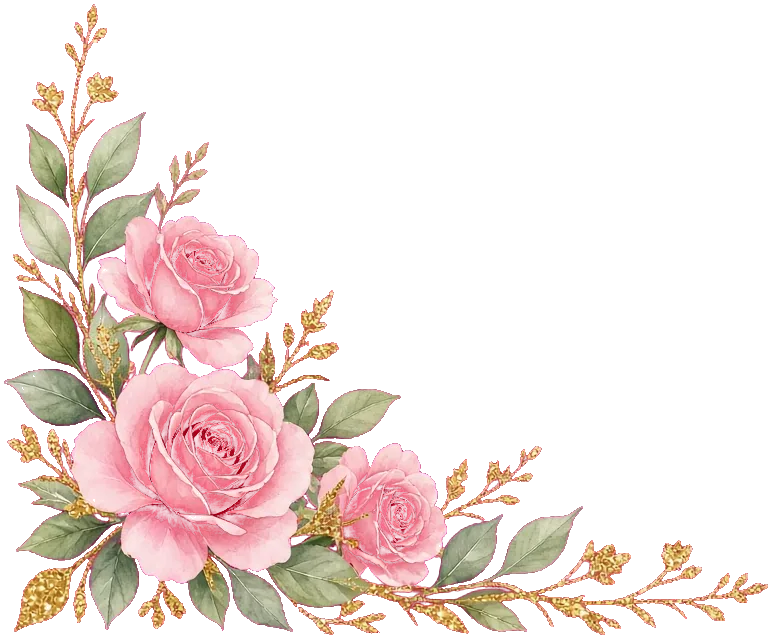
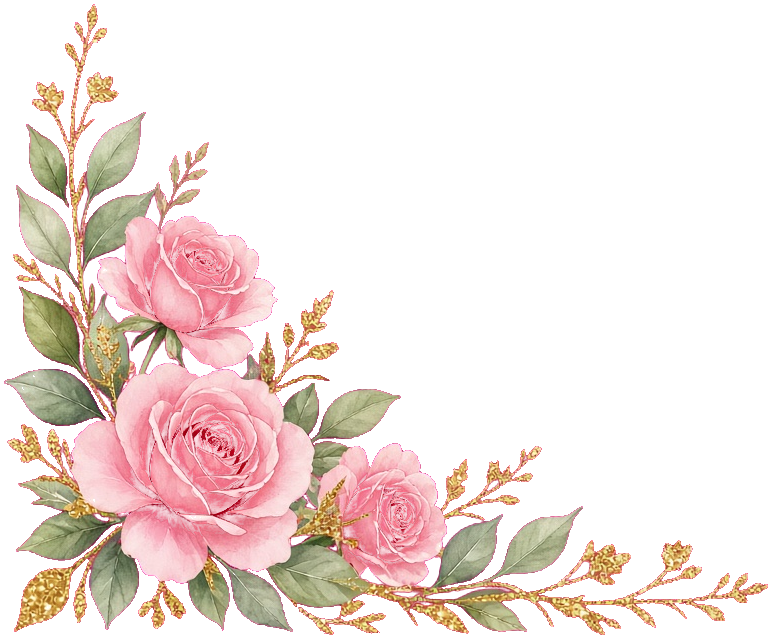
Refresh quince-tiara Ink pack and serve PNG florals.
Overwrite TL/BR/gown/tiara from the latest true-alpha Ink drop, rebuild lossless WebPs with no white matte, and paint florals from PNG so guest browsers cannot apply a WebP plate.

diff --git a/src/components/invite/quinceframe/quinceframe.css b/src/components/invite/quinceframe/quinceframe.css
@@ -95,10 +95,10 @@
 }
 
 .quinceframe-floral--tl {
-  top: -1%;
-  left: -2%;
-  width: 42%;
-  height: 22%;
+  top: -3%;
+  left: -5%;
+  width: 58%;
+  height: 32%;
 }
 
 .quinceframe-floral--tr {
@@ -116,10 +116,10 @@
 }
 
 .quinceframe-floral--br {
-  right: -1%;
-  bottom: -2%;
-  width: 38%;
-  height: 24%;
+  right: -4%;
+  bottom: -4%;
+  width: 54%;
+  height: 32%;
 }
 
 .quinceframe-floral .quinceframe-asset,
@@ -287,7 +287,7 @@
   left: 50%;
   bottom: 0;
   z-index: 1;
-  width: 64%;
+  width: 56%;
   height: 100%;
   transform: translateX(-50%);
   overflow: visible;

diff --git a/src/components/invite/quinceframe/TiaraMark.tsx b/src/components/invite/quinceframe/TiaraMark.tsx
@@ -41,8 +41,7 @@ function TiaraSvg() {
 export default function TiaraMark() {
   return (
     <AssetSlot
-      src={QUINCE_TIARA_ASSETS.tiara.webp}
-      fallbackSrc={QUINCE_TIARA_ASSETS.tiara.png}
+      src={QUINCE_TIARA_ASSETS.tiara.png}
       className="quinceframe-tiara"
     >
       <TiaraSvg />

diff --git a/src/components/invite/quinceframe/FloralCorner.tsx b/src/components/invite/quinceframe/FloralCorner.tsx
@@ -46,8 +46,7 @@ export default function FloralCorner({
 }) {
   return (
     <AssetSlot
-      src={SRC[corner].webp}
-      fallbackSrc={SRC[corner].png}
+      src={SRC[corner].png}
       className={`quinceframe-floral quinceframe-floral--${corner}`}
     >
       <RoseBouquet />
